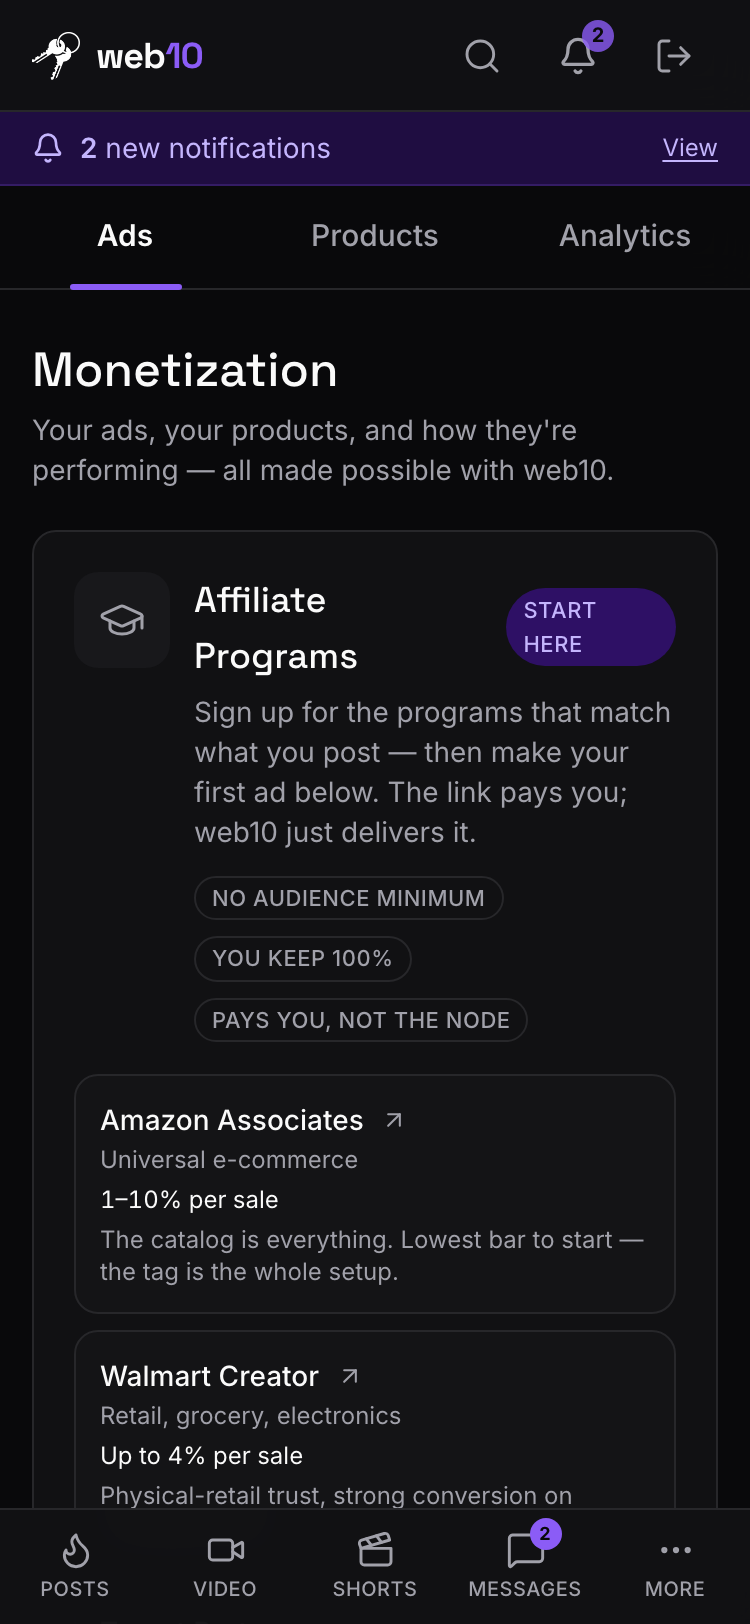
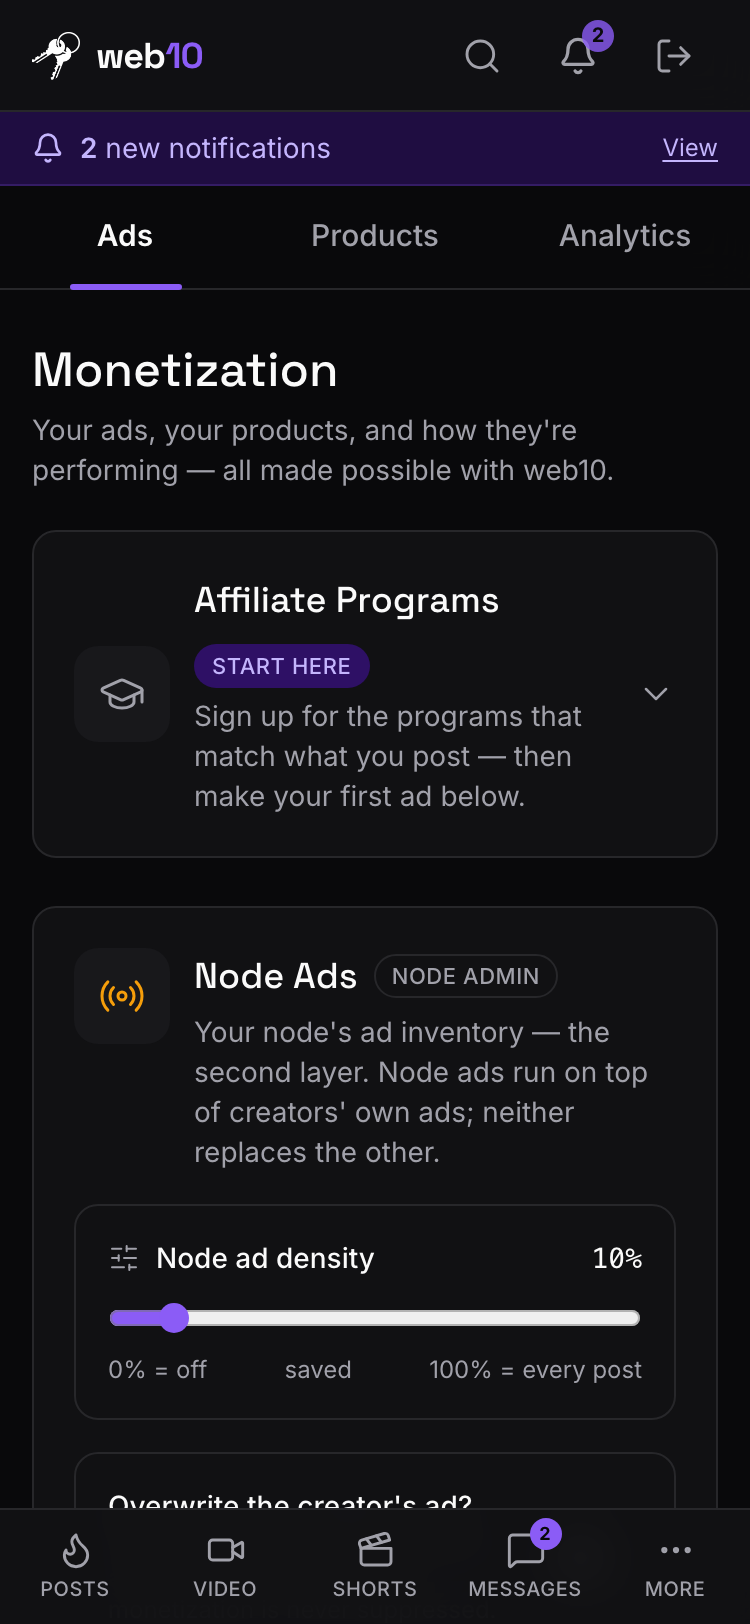
feat(web10-social): the Affiliate Programs card is collapsible — hidden by default once a creator has ads
The START HERE onboarding card sat fully expanded at the top of the
Monetization Ads tab, pushing the ad catalog down. Once a creator has made
affiliate accounts + ads it's onboarding noise.

The card is now a disclosure: collapsed by default when the creator has ads,
expanded for a fresh creator (no ads yet), with an explicit toggle that
persists to localStorage and overrides the smart default.

All client-side, D60 — zero node surface.

diff --git a/marketing/web10-social/src/components/Monetization/CreatorMonetization.tsx b/marketing/web10-social/src/components/Monetization/CreatorMonetization.tsx
@@ -1,5 +1,5 @@
 import { useState, useEffect, useCallback, useRef, useMemo, type ReactNode } from 'react';
-import { Megaphone, Plus, Pause, Play, Trash2, Pin, FolderPlus, AlertTriangle, RefreshCw, GraduationCap, ArrowUpRight, X, Pencil, ImagePlus, Radio } from 'lucide-react';
+import { Megaphone, Plus, Pause, Play, Trash2, Pin, FolderPlus, AlertTriangle, RefreshCw, GraduationCap, ArrowUpRight, X, Pencil, ImagePlus, Radio, ChevronDown } from 'lucide-react';
 import { cn } from '@/lib/utils';
 import { Badge } from '@/components/ui/badge';
 import { Button } from '@/components/ui/button';
@@ -62,6 +62,30 @@ const AFFILIATE_PROGRAMS: AffiliateProgram[] = [
   { name: 'PartnerStack', niche: 'SaaS / B2B software marketplace', commission: 'Varies by program (often 20–50% recurring)', why: 'One signup, one dashboard, hundreds of SaaS programs — a catalog, like Amazon, but for software.', signupUrl: 'https://dash.partnerstack.com/marketplace' },
 ];
 
+// The affiliate onboarding card is collapsible. It defaults to COLLAPSED once a
+// creator has ads (after the first affiliate account it's onboarding noise that
+// pushes the ad catalog down) and EXPANDED for a fresh creator (no ads yet — the
+// "START HERE" sign-up ramp is the most useful thing on the page). An explicit
+// toggle overrides the default and is remembered in localStorage.
+const AFFILIATE_OPEN_KEY = 'w10-affiliate-programs-open';
+function readStoredAffiliateOpen(): 'open' | 'closed' | null {
+  try {
+    const v = localStorage.getItem(AFFILIATE_OPEN_KEY);
+    if (v === 'open') return 'open';
+    if (v === 'closed') return 'closed';
+    return null;
+  } catch {
+    return null;
+  }
+}
+function writeStoredAffiliateOpen(open: boolean) {
+  try {
+    localStorage.setItem(AFFILIATE_OPEN_KEY, open ? 'open' : 'closed');
+  } catch {
+    // private mode / storage disabled — the toggle still works for this visit.
+  }
+}
+
 /**
  * The Monetization Ads section (D55, D57, D75) — the ad catalog, the affiliate
  * onboarding, and (for the node admin) the node-ad inventory.
@@ -97,6 +121,29 @@ export function CreatorMonetization({ isAdmin = false }: { isAdmin?: boolean }) 
   const [filterAlbum, setFilterAlbum] = useState<string | null>(null);
   // The ad-list scope filter (node admin only): all | regular | node.
   const [scopeFilter, setScopeFilter] = useState<'all' | 'regular' | 'node'>('all');
+
+  // The affiliate onboarding card's open/closed state. `null` = undecided (the
+  // catalog hasn't settled yet, so the smart default can't be computed).
+  const [affiliateOpen, setAffiliateOpen] = useState<boolean | null>(null);
+
+  // Decide the default once the catalog has settled (loaded or errored): an
+  // explicit stored choice wins; otherwise the smart default (open for a fresh
+  // creator with no ads, collapsed once they have ads).
+  useEffect(() => {
+    if (affiliateOpen !== null || loading) return;
+    const stored = readStoredAffiliateOpen();
+    if (stored === 'open') setAffiliateOpen(true);
+    else if (stored === 'closed') setAffiliateOpen(false);
+    else setAffiliateOpen((data?.ads.length || 0) === 0);
+  }, [affiliateOpen, loading, data]);
+
+  const toggleAffiliate = () => {
+    setAffiliateOpen((prev) => {
+      const next = !(prev === null ? false : prev);
+      writeStoredAffiliateOpen(next);
+      return next;
+    });
+  };
 
   const openNewAd = () => { setEditingAdId(null); setNewAdOpen(true); };
   const openEditAd = (ad: AdItem) => { setNewAdOpen(false); setEditingAdId(ad.doc.doc_id); };
@@ -290,35 +337,62 @@ export function CreatorMonetization({ isAdmin = false }: { isAdmin?: boolean }) 
 
   return (
     <div className="space-y-6" data-testid="creator-monetization">
-      {/* The affiliate onboarding — "get started". */}
-      <div className="rounded border border-border bg-card p-5" data-testid="affiliate-programs-card">
-        <div className="flex items-start gap-3">
+      {/* The affiliate onboarding — "get started". Collapsible: it defaults to
+          collapsed once a creator has ads (onboarding noise after the first
+          affiliate account) and expanded for a fresh creator (no ads yet). An
+          explicit toggle overrides the default and is remembered. */}
+      <div className="rounded border border-border bg-card" data-testid="affiliate-programs-card">
+        <div
+          role="button"
+          tabIndex={0}
+          aria-expanded={affiliateOpen === true}
+          onClick={toggleAffiliate}
+          onKeyDown={(e) => {
+            if (e.key === 'Enter' || e.key === ' ') {
+              e.preventDefault();
+              toggleAffiliate();
+            }
+          }}
+          className="flex cursor-pointer items-center gap-3 p-5 text-left transition-colors hover:bg-elevated/40 focus-visible:outline-none focus-visible:ring-2 focus-visible:ring-ring focus-visible:ring-inset"
+          data-testid="affiliate-programs-toggle"
+        >
           <div className="flex h-12 w-12 flex-shrink-0 items-center justify-center rounded bg-elevated text-muted-foreground">
             <GraduationCap className="h-6 w-6" strokeWidth={1.5} />
           </div>
           <div className="min-w-0 flex-1">
-            <div className="flex items-center gap-2">
+            <div className="flex flex-wrap items-center gap-2">
               <h3 className="font-display text-lg font-medium text-foreground">Affiliate Programs</h3>
-              <Badge variant="brand">START HERE</Badge>
+              <Badge variant="brand" className="whitespace-nowrap">START HERE</Badge>
             </div>
             <p className="mt-1 text-sm text-muted-foreground">
-              Sign up for the programs that match what you post — then make your first ad below. The link pays you; web10 just delivers it.
+              Sign up for the programs that match what you post — then make your first ad below.
             </p>
-            <div className="mt-3 flex flex-wrap gap-2">
+          </div>
+          <ChevronDown
+            className={cn(
+              'h-5 w-5 flex-shrink-0 text-muted-foreground transition-transform duration-150',
+              affiliateOpen === true && 'rotate-180',
+            )}
+            strokeWidth={1.5}
+          />
+        </div>
+        {affiliateOpen === true && (
+          <div className="border-t border-border p-5 pt-4" data-testid="affiliate-programs-body">
+            <div className="flex flex-wrap gap-2">
               <Badge variant="outline">No audience minimum</Badge>
               <Badge variant="outline">You keep 100%</Badge>
               <Badge variant="outline">Pays you, not the node</Badge>
             </div>
+            <div className="mt-4 grid gap-2 sm:grid-cols-2">
+              {AFFILIATE_PROGRAMS.map((program) => (
+                <ProgramRow key={program.name} program={program} />
+              ))}
+            </div>
+            <p className="mt-4 text-xs text-muted-foreground">
+              Rates and cookie windows shift — confirm on the program&apos;s page before you pitch a brand off them.
+            </p>
           </div>
-        </div>
-        <div className="mt-4 grid gap-2 sm:grid-cols-2">
-          {AFFILIATE_PROGRAMS.map((program) => (
-            <ProgramRow key={program.name} program={program} />
-          ))}
-        </div>
-        <p className="mt-4 text-xs text-muted-foreground">
-          Rates and cookie windows shift — confirm on the program&apos;s page before you pitch a brand off them.
-        </p>
+        )}
       </div>
 
       {/* The node-ad controls (node admin only) — the density + overwrite

diff --git a/marketing/web10-social/src/__tests__/monetization.test.tsx b/marketing/web10-social/src/__tests__/monetization.test.tsx
@@ -68,6 +68,7 @@ const EMPTY_ANALYTICS = {
 
 beforeEach(() => {
   vi.clearAllMocks();
+  localStorage.clear();
   readMyCatalog.mockResolvedValue(EMPTY_CATALOG);
   readNodeAds.mockResolvedValue([]);
   getNodeConfig.mockResolvedValue({ node_ad_percentage: 10 });
@@ -147,6 +148,90 @@ describe('MonetizationScreen', () => {
     fireEvent.click(screen.getByTestId('monetization-tab-analytics'));
     expect(await screen.findByTestId('analytics-section')).toBeInTheDocument();
     expect(screen.queryByTestId('creator-monetization')).not.toBeInTheDocument();
+  });
+});
+
+describe('Affiliate Programs card — collapsible (hidden by default once you have ads)', () => {
+  const AD = {
+    doc: { doc_id: 'ad-1', tags: ['ad'] },
+    text: 'Everything I use, linked.',
+    offer: { kind: 'affiliate', partner: 'Amazon', link: 'https://amzn.to/abc', cta: 'Get it', disclosure: '' },
+    status: 'active' as const,
+    media_refs: undefined,
+    format: 'inline' as const,
+    albums: [] as string[],
+  };
+
+  it('is collapsed by default for a creator who has ads', async () => {
+    checkNodeAdmin.mockResolvedValue(false);
+    readMyCatalog.mockResolvedValue({ ads: [AD], albums: [], posts: [] });
+    renderAt('/monetize');
+    // The toggle (the card header) is always present.
+    const toggle = await screen.findByTestId('affiliate-programs-toggle');
+    // Wait for the catalog to load (the ad row proves the data is in), so the
+    // smart default has decided.
+    await screen.findByTestId('ads-row-ad-1');
+    // A creator with ads gets the card collapsed (the onboarding is noise).
+    expect(toggle).toHaveAttribute('aria-expanded', 'false');
+    expect(screen.queryByTestId('affiliate-programs-body')).not.toBeInTheDocument();
+  });
+
+  it('is expanded by default for a fresh creator (no ads yet)', async () => {
+    checkNodeAdmin.mockResolvedValue(false);
+    readMyCatalog.mockResolvedValue(EMPTY_CATALOG);
+    renderAt('/monetize');
+    // No ads → the "START HERE" onboarding is open by default.
+    const body = await screen.findByTestId('affiliate-programs-body');
+    expect(body).toBeInTheDocument();
+    expect(screen.getByTestId('affiliate-programs-toggle')).toHaveAttribute('aria-expanded', 'true');
+  });
+
+  it('toggles open/closed and remembers the choice in localStorage', async () => {
+    checkNodeAdmin.mockResolvedValue(false);
+    readMyCatalog.mockResolvedValue({ ads: [AD], albums: [], posts: [] });
+    renderAt('/monetize');
+    const toggle = await screen.findByTestId('affiliate-programs-toggle');
+    await screen.findByTestId('ads-row-ad-1'); // let the smart default decide
+    // Collapsed by default (has ads).
+    expect(toggle).toHaveAttribute('aria-expanded', 'false');
+    expect(screen.queryByTestId('affiliate-programs-body')).not.toBeInTheDocument();
+    // Open it.
+    fireEvent.click(toggle);
+    expect(screen.getByTestId('affiliate-programs-body')).toBeInTheDocument();
+    expect(toggle).toHaveAttribute('aria-expanded', 'true');
+    expect(localStorage.getItem('w10-affiliate-programs-open')).toBe('open');
+    // Close it again.
+    fireEvent.click(toggle);
+    expect(screen.queryByTestId('affiliate-programs-body')).not.toBeInTheDocument();
+    expect(toggle).toHaveAttribute('aria-expanded', 'false');
+    expect(localStorage.getItem('w10-affiliate-programs-open')).toBe('closed');
+  });
+
+  it('is keyboard operable (Enter / Space toggle the card)', async () => {
+    checkNodeAdmin.mockResolvedValue(false);
+    readMyCatalog.mockResolvedValue({ ads: [AD], albums: [], posts: [] });
+    renderAt('/monetize');
+    const toggle = await screen.findByTestId('affiliate-programs-toggle');
+    await screen.findByTestId('ads-row-ad-1');
+    expect(screen.queryByTestId('affiliate-programs-body')).not.toBeInTheDocument();
+    fireEvent.keyDown(toggle, { key: 'Enter' });
+    expect(screen.getByTestId('affiliate-programs-body')).toBeInTheDocument();
+    fireEvent.keyDown(toggle, { key: ' ' });
+    expect(screen.queryByTestId('affiliate-programs-body')).not.toBeInTheDocument();
+  });
+
+  it('an explicit stored choice overrides the smart default', async () => {
+    checkNodeAdmin.mockResolvedValue(false);
+    // A fresh creator (no ads) but explicitly closed → stays closed (the smart
+    // default would be "open" for no ads, but the stored choice wins).
+    localStorage.setItem('w10-affiliate-programs-open', 'closed');
+    readMyCatalog.mockResolvedValue(EMPTY_CATALOG);
+    renderAt('/monetize');
+    // Wait for the catalog to load (the empty state proves the data is in), so
+    // the decision effect has run.
+    await screen.findByTestId('ads-empty');
+    expect(screen.queryByTestId('affiliate-programs-body')).not.toBeInTheDocument();
+    expect(screen.getByTestId('affiliate-programs-toggle')).toHaveAttribute('aria-expanded', 'false');
   });
 });
 

diff --git a/knowledge-base/strategy/parallel-execution.md b/knowledge-base/strategy/parallel-execution.md
@@ -718,7 +718,8 @@ first-class; an ad in a few via a tag-like field). The full curation engine
 - [✓ 3.229.5] **The product is a first-class entity — the affiliate link lives on the product, ads reference it (D89, the "ad is the superset" refinement reversed)** (operator, 11.10.2026: "the product feature in the monetization is good! however the affiliate link should be on the product, then you can make multiple different ads for the same product" → "that is probably for the best, a little more work, but worth it"). **All client-side, D60 — zero node surface.** (1) **The product entity** — a `posts` doc tagged `product` in the followers group (the same group as the ads, so one read returns both): the stable thing (the affiliate `link`, `partner`, `kind`, `name`, `price`, `commission` + `commission_is_percent`, `pics`, `actuals`, `calibration`). `Product` in `data/types.ts` (+ `parseProductDoc`); `createProduct` / `updateProduct` / `readProducts` in `data/ads-catalog.ts`. (2) **The ad references the product** — the ad's body gains a `product_id` (the ref); the ad's `offer` carries a **denormalized snapshot** of the product's `link` + `partner` + `kind` (so the public feed's ad block renders the CTA without a node-side product attach — D60). The reader resolves the ad's product from the `product_id` (new) or the embedded `product` section (old, backward-compatible). (3) **The Products tab → the product maker** (`ProductsSection.tsx`) — create/edit products (the master), each with a make-an-ad + edit affordance. (4) **The ad form → the product picker** (`CreatorMonetization.tsx`) — pick a product (or create inline); picking one auto-fills the offer's `link` / `partner` / `kind` (the snapshot). (5) **The storefront** (`StorefrontScreen.tsx`) — shows the products (the master). **Tests:** `adsCatalog.test.ts` + the product CRUD + the resolve; `monetization.test.tsx` re-pinned to the product maker + the picker. KB: `ads.md` "The Product" + `monetization.md` "Products" + `product-entity.md` (the reversal). Screenshots: `monetize-products-{desktop,375}.png` + `storefron... (line truncated to 2000 chars)
 - [~ 3.231.0] **The Analytics tab becomes a funnel — real D86 reach shown even with zero ads + a "what you could be making" calculator that projects from the audience you already have** (operator, 11.10.2026, a screenshot of the empty Analytics tab: "would be really great to pump this up more, even if you dont have a product should show you analytics on the impressions on your posts, and have calculators on what you could be making!" + "telling the user the story if they DID do ads, or the potential etc — this can be another funnel is what i am saying"). **All client-side, D60 — zero node surface.** The Analytics tab was gated entirely behind "has a product ad" — a creator with zero product ads saw a "Clicks — coming soon" note + a "Nothing to measure yet" dead end, even though the D86 engine (3.223.3/3.227.0) was already capturing real impressions + reach on every post. `AnalyticsSection.tsx` is restructured into a three-layer funnel: (1) **Your Reach** — reads the D86 engine's real impressions + reach across the whole catalog (ads + posts + albums, via `readViewCounts` over the followers group) and shows the totals, always rendered even with zero ads (the "your content is already being seen" beat). (2) **What you could be making** — a what-if calculator (impressions slider 10k–1M + price + commission) that runs the existing `projectEarnings` math over an assumed product, so the projected $ updates live with **no product required**; it seeds the slider from the creator's real D86 total when one exists, and shows an "Add a product" CTA (deep-link to the Ads tab) when no product ad exists. (3) **Portfolio + Performance** — the existing projection-vs-actual tell (focus #4), now rendered only when at least one product ad exists. The "Clicks — coming soon" placeholder is retired (the measured per-ad click counter is still the D86 click lane). **Tests:** `monetization.test.tsx` +5 (Reach + Calculator render on an empty catalog; real impression/reach totals from D86; pric... (line truncated to 2000 chars)
  - [~ 3.232.0] **The creator analytics dashboard Tier 1 — real D86 reach as charts (the "Google/YouTube Analytics" feel)** (operator, 11.10.2026: "i want to have really good stuff like google analytics, youtube analytics, spotify analytics, i want to think about what we are showing graphically, what we are planning to have!" + "they have things like seeing analytics for individual posts for example"). **KB first (AI use theory):** `knowledge-base/web10-v3/analytics/creator-dashboard.md` — the concrete dashboard spec (the four tiers, the data contract, the charting decision, the planned next narrowing). **Charting: Recharts** (hover tooltips + gradient fills + responsive; the "robust" part is product logic built on top, not charting-library territory). **Tier 1 build (all client-side, D60 — zero node surface):** (1) `data/creator-analytics.ts` — the pure aggregation over the D86 `contentAnalytics` read (one row per (doc, surface, day) → `daily`/`bySurface`/`topPosts`/`totals`); `readCreatorAnalytics(windowDays)` + `readPostAnalytics(docId, windowDays)` (the Tier 2 seam); a read failure degrades to the empty shape. (2) `ReachCharts.tsx` — the "Your Reach" hero: the two big numbers (impressions + reach), the **time-series** (Recharts `ComposedChart`: impressions area with a brand-violet gradient + reach line in success green), a **7d/30d/90d window toggle** (charts refresh in place — no blank flash), the **surface breakdown** (horizontal bars), and the **top posts** (ranked list of the 5 highest-impression posts — the Tier 2 drill-down entry point). A no-data window renders a designed empty state. (3) `AnalyticsSection.tsx` — the static Reach card is replaced by `ReachCharts`; the data source moves from `readViewCounts` (per-doc, lifetime) to `readCreatorAnalytics` (per-day, windowed); the calculator seeds from the windowed total. **Tests:** `creatorAnalytics.test.ts` (new, 6 — the pure aggregation) + `monetization.test.tsx` re-mocked for the new `readCreatorA... (line truncated to 2000 chars)
- - [~ 3.233.0] **The ad editor edits in place + a node admin can flip an ad between a regular ad and a node ad** (operator, 11.10.2026: "in the ad editor, i dont see a way to make an ad into a node ad and back into a regular ad IF i am an admin of course, for regular users this is not something that is an issue" + "i have 30 adds, i scroll down on mobile, hit edit, the editor is at the top i scroll all the way back up to edit the add instead of the ad itself going into a edit mode for me to edit that specific ad, i.e. all the ads share the same editor the way you did it"). **All client-side, D60 — zero node surface.** (1) **Inline edit mode** (`CreatorMonetization.tsx`) — the form used to render once at the top, so editing the 30th ad meant scrolling back up; now `editingAdId` + `newAdOpen` track state and `CatalogSection` swaps the edited ad's `AdRow` for the `AdForm` in place (the editor sits at the ad you tapped). (2) **The Run-as scope is changeable in edit mode (node admin only)** — the scope toggle (Personal / Node) now appears in edit mode, seeded to the ad's current scope; changing it **converts** the ad via a new `convertAdScope(ad, target, …)` in `data/ads-catalog.ts` (a single `update` — new group + retagged body, same `doc_id`; the node's `update` already replaces a doc's group attachments when `groups` is passed). Same-scope edit → normal `updateAd`/`updateNodeAd`; changed scope → `convertAdScope`. A non-admin never sees the toggle (personal-only). **Tests:** `monetization.test.tsx` mock gains `convertAdScope` + 7 (inline edit swaps row↔form + cancel restores; scope toggle present in edit mode for admin / absent for non-admin; regular→node + node→personal both call `convertAdScope` with the right target; same-scope edit is a normal update). 1476 web10-social green, `tsc` clean. KB `social/monetization.md` + `social/node-ads.md` updated.
+  - [~ 3.233.0] **The ad editor edits in place + a node admin can flip an ad between a regular ad and a node ad** (operator, 11.10.2026: "in the ad editor, i dont see a way to make an ad into a node ad and back into a regular ad IF i am an admin of course, for regular users this is not something that is an issue" + "i have 30 adds, i scroll down on mobile, hit edit, the editor is at the top i scroll all the way back up to edit the add instead of the ad itself going into a edit mode for me to edit that specific ad, i.e. all the ads share the same editor the way you did it"). **All client-side, D60 — zero node surface.** (1) **Inline edit mode** (`CreatorMonetization.tsx`) — the form used to render once at the top, so editing the 30th ad meant scrolling back up; now `editingAdId` + `newAdOpen` track state and `CatalogSection` swaps the edited ad's `AdRow` for the `AdForm` in place (the editor sits at the ad you tapped). (2) **The Run-as scope is changeable in edit mode (node admin only)** — the scope toggle (Personal / Node) now appears in edit mode, seeded to the ad's current scope; changing it **converts** the ad via a new `convertAdScope(ad, target, …)` in `data/ads-catalog.ts` (a single `update` — new group + retagged body, same `doc_id`; the node's `update` already replaces a doc's group attachments when `groups` is passed). Same-scope edit → normal `updateAd`/`updateNodeAd`; changed scope → `convertAdScope`. A non-admin never sees the toggle (personal-only). **Tests:** `monetization.test.tsx` mock gains `convertAdScope` + 7 (inline edit swaps row↔form + cancel restores; scope toggle present in edit mode for admin / absent for non-admin; regular→node + node→personal both call `convertAdScope` with the right target; same-scope edit is a normal update). 1476 web10-social green, `tsc` clean. KB `social/monetization.md` + `social/node-ads.md` updated.
+- [✓ 3.234.0] **The Affiliate Programs onboarding card is collapsible — hidden by default once a creator has ads, so the ad catalog is the first thing you see** (operator, 14.10.2026, a Monetization Ads-tab screenshot: "this affiliate programs section is great, but it should default to hidden, let the user toggle it open, because once you make some affiliate accounts, then it is just taking up space cant see the ads i have"). **All client-side, D60 — zero node surface.** The "START HERE" affiliate onboarding card (the monetization-bootcamp shortlist) sat at the top of the Ads tab, fully expanded, pushing the ad catalog down; once a creator has made affiliate accounts + ads it's onboarding noise. **The change (`CreatorMonetization.tsx`):** the card is now a disclosure. (1) **Smart default** — collapsed once a creator has ads (the catalog is the point), expanded for a fresh creator with no ads yet (the sign-up ramp is the most useful thing on the page); decided once the catalog read settles. (2) **The toggle** — the card header (icon + title + START HERE badge + a one-line description + a chevron) is a `role="button"` disclosure (`aria-expanded`, keyboard-operable via Enter/Space, `focus-visible` ring); tapping it expands/collapses the body (the three value-prop badges + the program grid + the "rates shift" caveat). (3) **Remembered** — an explicit toggle persists to `localStorage` (`w10-affiliate-programs-open` = `open`/`closed`) and overrides the smart default on the next visit. **Tests:** `monetization.test.tsx` +5 (collapsed when the creator has ads; expanded for a fresh creator; the toggle flips + writes the choice; keyboard operable; an explicit stored choice overrides the smart default) + `localStorage.clear()` in the suite's `beforeEach`. 1482 web10-social green, `tsc` clean. Screenshots: `monetize-ads-{desktop,375}.png` (collapsed) + `monetize-ads-open-{desktop,375}.png` (expanded).
 
 ### Lane: node-ads (D57)
 **Owns:** `api/app/v3/services/clickhouse.py` (node ad query + read-time attachment), `api/app/v3/endpoints/documents.py` (the read enrichment — the third join: `doc.ad` + `doc.node_ad`), `api/app/services/config.py` + `api/app/models/config.py` (`node_ad_percentage`), `ui/src/components/Studio/` (Ad Inventory card), `marketing/web10-social/src/components/Feed/` (renderer: `node_ad` tag → "Sponsored" label, both ads on the same post), `e2e/tests/node-ads.spec.ts`, `api/tests/test_node_ads.py`

diff --git a/knowledge-base/changelogs/CHANGELOG.md b/knowledge-base/changelogs/CHANGELOG.md
@@ -1,3 +1,6 @@
+3.234.0 || 14.10.2026
+feat(web10-social): **the Affiliate Programs onboarding card is now collapsible — hidden by default once a creator has ads, so the ad catalog is the first thing you see** — operator (14.10.2026, a screenshot of the Monetization Ads tab): "this affiliate programs section is great, but it should default to hidden, let the user toggle it open, because once you make some affiliate accounts, then it is just taking up space cant see the ads i have." **All client-side, D60 — zero node surface.** The "START HERE" affiliate onboarding card (the monetization-bootcamp shortlist — sign up for the programs that match what you post) sat at the top of the Ads tab, fully expanded, pushing the ad catalog down. Once a creator has made affiliate accounts + ads, the card is onboarding noise. **The change (`CreatorMonetization.tsx`):** the card is now a disclosure. (1) **Smart default** — the card defaults to **collapsed** once a creator has ads (the catalog is the point) and **expanded** for a fresh creator with no ads yet (the sign-up ramp is the most useful thing on the page); the default is decided once the catalog read settles. (2) **The toggle** — the card header (icon + title + START HERE badge + a one-line description + a chevron) is a `role="button"` disclosure (`aria-expanded`, keyboard-operable via Enter/Space, `focus-visible` ring); tapping it expands/collapses the body (the three value-prop badges + the program grid + the "rates shift" caveat). (3) **Remembered** — an explicit toggle persists to `localStorage` (`w10-affiliate-programs-open` = `open`/`closed`) and overrides the smart default on the next visit. **Tests (`monetization.test.tsx` +5):** collapsed by default when the creator has ads; expanded by default for a fresh creator; the toggle flips open/closed + writes the choice to localStorage; keyboard operable (Enter/Space); an explicit stored choice overrides the smart default. `localStorage.clear()` added to the suite's `beforeEach`. 1482 web10-social tests green, `tsc --noEmit` clean. **Screenshots:** `monetize-ads-{desktop,375}.png` (collapsed) + `monetize-ads-open-{desktop,375}.png` (expanded).
+
 3.233.4 || 13.10.2026
 docs(ai-pack) + docs(kb): **the AI Security Theory — a portable method for doing security as *coverage, not convergence*, born from the 1157/1159 failure** — operator, on the two big security PRs: "i consider it a serious failure" + "security should always be no more than 500 line PRs… 100 line code changes at a time" + "a norton antivirus approach… going file by file, marking in our security log what lines were scanned" + "a completely separate backlog of big big picture things… make sure all the files have been scanned this weaker style, then go into those broader multi file security patches" + "you can easily parallelize this, doing the work at the same time, but more bite sized changes." **The reframe:** a security-hardening task has no bounded scope and no provable *done* ("no more vulns" is unprovable), so handed to an agent it produces a sprawl — exactly what 1157/1159 were (two ~90-file PRs, overlapping, unverifiable as a unit, the scary stuff parked as "historical-exposure follow-ups remaining open," a breaking 4.0.0 coordinated rollout). The fix: stop treating security as a *convergence* task (find the break, fix it, green) and treat it as a **coverage** task — what fraction of the trust surface has been scanned + what fraction of findings are fixed, both ledgered and monotonic. Forward progress = the ledger fills up and the backlog drains, and you can point at the ledger and show it. **The method (new `ai-pack/ai-security-theory/`, a multi-dir cartridge mirroring `ai-use-theory/`):** `README.md` (the reframe + the scope ladder + the pentest gate + the seven rules) · `security-post-mortem/` (the 1157/1159 story — opens the theory the way ai-use-theory opens on the money-bleed, with the no-peace-of-mind ending + the merge-breakage closer) · `the-orient/` (Phase 1 — read the learnings KB first: onboarding, recession, the obvious gap via assumption-enumeration, and the write-back that makes the next orient smarter) · `the-scope-ladder/` (L1 file-scan → L2 call-graph-scan → L3 service-scan → L4 project-wide-scan, the hop-count L2/L3 boundary + the criticality gradient (backend-first — a backend vuln needs no human to exploit, a frontend one does), one level to 100% before the next + `the-checklist.md` re-cut for Python/JS — C/memory-safety threats demoted, + SSRF / deserialization / TOCTOU / mass-assignment / the render choke point / the query engine as a first-class target, availability named as the class the invariants don't cover) · `the-ledger/` (the altitude: format, PASS/OPEN/STALE + the deferral reference + the **repro gate** — the security unit test *is* an exploit and the workflow is **exploit-first** (build the exploit → red = the vuln is real → fix → the same exploit is denied = green; second-eyes confirm on trust boundaries) — freestyle granularity + `staleness-and-cadence.md`, relative staleness + the 3–6 month re-scan clock + the ratchet) · `running-it/` (the operation: scope slicing, the scan→fix PR flow, the seven enforceable rules, the "done" gate). **The load-bearing disciplines:** the scan is **read-only** (a scan PR touches only the ledger + backlog, never code → safe to parallelize 8 workspaces across a scope, and the anti-sycophancy move — a narrow scope is read line-by-line, "scan everything" is how a genius model says "totally secure"); the fix is a **separate ≤500-line PR** (target ~100, one finding, a **repro-gate** test — the exploit replayed, denied); **orient first** (read the learnings KB — onboarding, recession, the obvious gap) then **L1 → L2 → L3 → L4, backend-first**, each to 100% before the next; **PASS = no open backlog** for that unit at that level (a finding can be deferred to a `BP-n` by reference); **every fix writes back to the learnings KB** (the next orient is smarter); **staleness is relative** (~3 months or a security-relevant commit, not every commit) backed by a **3–6 month re-scan cadence**; **the repro gate + re-scan make coverage ratchet** (a fix can't regress, a re-scan adds coverage → more secure over time). **The two roots of trust:** the **ledger** records *coverage* (a surface is only as secure as its last scan); the **learnings KB** records *knowledge* (the invariants as they've evolved, every finding→fix, the gaps, the considered-and-declined list) — the security analog of "the KB is the root of trust." **The state (new `knowledge-base/security/`):** `README.md` (honest status — pre-prod, not independently audited) · `learnings.md` (the security memory the orient reads: the invariants as they've evolved, the B-1..B-6 / S-1..S-5 findings→fixes as dated learnings, the known gaps — availability not an invariant, no defense-in-depth at the storage layer — and the considered-and-declined list — no e2e by design (D41), token-in-body by design, no HttpOnly) · `scan-ledger.md` (seeded from the October audit; the 1157/1159 rows are **OPEN, not PASS**, because that hardening is in flight, not merged) · `big-picture-backlog.md` (BP-1..BP-6: federation signing I1, delegation I5, RTC admission, historical-exposure rotation, the coordinated 4.0.0 rollout, the external audit) · `scans/` (the October audit **moved in** from `security-audit/october/` → `scans/2026-10/`, + `scans/late-stage/` the hacker-model gauntlet). **Wiring:** `AGENTS.md` gains a WAKE-UP pointer ("load `ai-pack/ai-security-theory/README.md` before doing security work… no 90-file security PRs") + the tour lists `ai-security-theory/` and the re-homed `security/`; `ai-pack/README.md` + `knowledge-base/README.md` folder maps updated; `security-audit/` is gone (→ `security/scans/`); `security-hardening-extraction.md` paths re-pointed. **The fidelity + ratchet additions (v3 of the theory):** the **convergence review** — a trust-boundary unit isn't PASS until a fresh, untainted reviewer is run **three times, dry all three** (run-until-dry; anything real it raises is added to the ledger as OPEN → exploit + fix) — this is the "second pair of eyes" made a rule, and the answer to "but is the AI a true oracle?" (bounded, evidenced uncertainty, not an oracle); the **model-upgrade ratchet** (third ratchet alongside pinning tests + re-scan — each pass runs on a stronger model inheriting every learning, so every play of the game is strictly more secure, no oracle required); and **a failed exploit is a learning** (a suspected vuln whose exploit *fails* is a confirmed non-vulnerability, recorded in the learnings as a dated negative — "what we've proven safe, and why" — which doubles as the recession early-warning). **The enforcement + fidelity + scope additions (v4 of the theory):** (1) the **security gauntlet** — the accumulated exploits run in CI on every PR (like the e2e gauntlets; a regression fails the build) + a per-PR **gate** (≤500 lines, red→green test or scrutinized explanation, ledger updated) — the "wrong way doesn't merge" piece that closes the 1157/1159 enforcement gap; (2) **model diversity** — the `model=` field is the hook to layer *different model families* across the scan + convergence review, hitting the class-level blind spots a single family shares (transparency makes the blind spots visible); (3) the **repro gate has two forms by level** — L1/L2 a *deterministic* exploit (mocking forces the conditions: the clock for the race, the second actor, the payload), L3/L4 deterministic when feasible else a **scrutinized explanation** (the exact sequence, why it's real, what prevents it — adversarially checked by other agents); (4) **availability reframed as out of scope** — DoS/reliability is a different discipline, not a hole in the C+I invariants (its own track if it ever becomes a concern); the "obvious gap" example is now a real C+I class (supply chain). Plus a **cost note**: the read-only scan parallelizes for free — ~13k-LOC core across ~40 parallel scanners PRing 100–200-line fixes is a quick win, not a program. **+ the bad-practices / hygiene class (v5 of the theory):** a distinct L1 finding class beyond "hackable from the outside" — straight-up practices that compromise the posture by convention (secret in public source, secret in a build artifact, weak/default creds, insecure defaults, no rotation, over-broad modes). **Weighted for open source:** secret-in-public-source is HIGH (a world-leak, not a break-in leak); debug/verbose/stack-trace is LOW (the code is public anyway). Caught and **cleaned at L1 as you go** — the rule that keeps them from *stacking* into a compound vuln is simply not letting them accumulate. Close condition: trivial-exploit ones close red→green; pure-hygiene ones close with a **static check** (the practice is gone). **+ the enforcement, built (v6):** the theory's last piece, now a running control — `scripts/security-gate.sh` (the per-PR gate: on any trust-boundary PR, fail unless ≤500 lines of code+test, the ledger is updated, and there's a repro test or a `SECURITY-EXPLAINED` marker; `SECURITY-GATE-EXEMPT` is the escape hatch) + `.github/workflows/security-gate.yml` (the `gate` job runs the script; the `gauntlet` job runs the API security suite — the exploits + the I1–I6 conformance tests — as a backstop on *any* trust-boundary change, not just `api/**`). The wrong way now doesn't merge. **Plus the run details (v5b):** the within-layer **fix order** (severity first, crown-jewels tiebreak, root-cause-first when one fix kills another) and the **day-1 bootstrap** (start with the security-critical core at L1, backend-first: `clickhouse.py` → `safe_query.py` → `auth.py` → …). Code changed: `scripts/security-gate.sh` + `.github/workflows/security-gate.yml` (tooling/CI); method + KB state as before.
 
